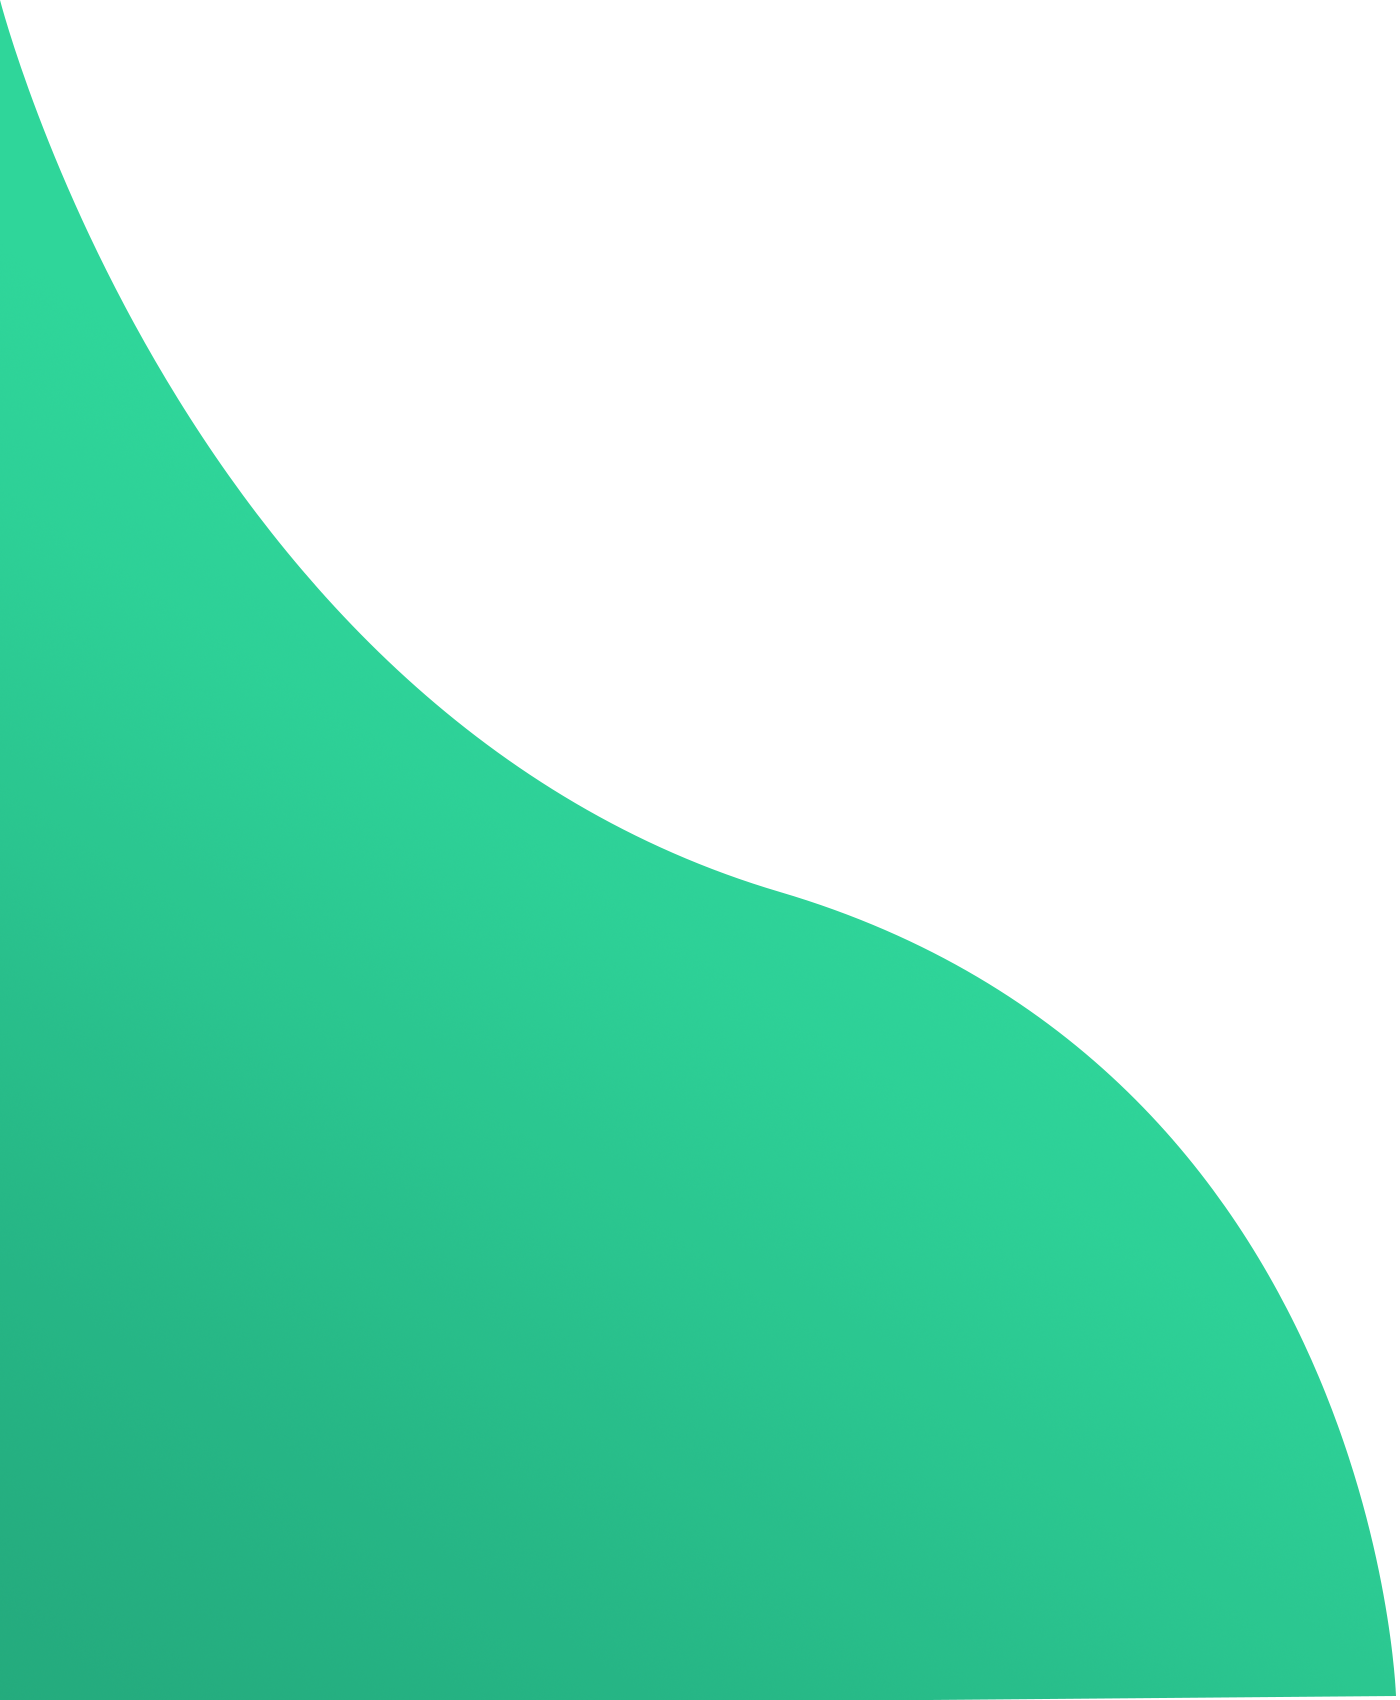
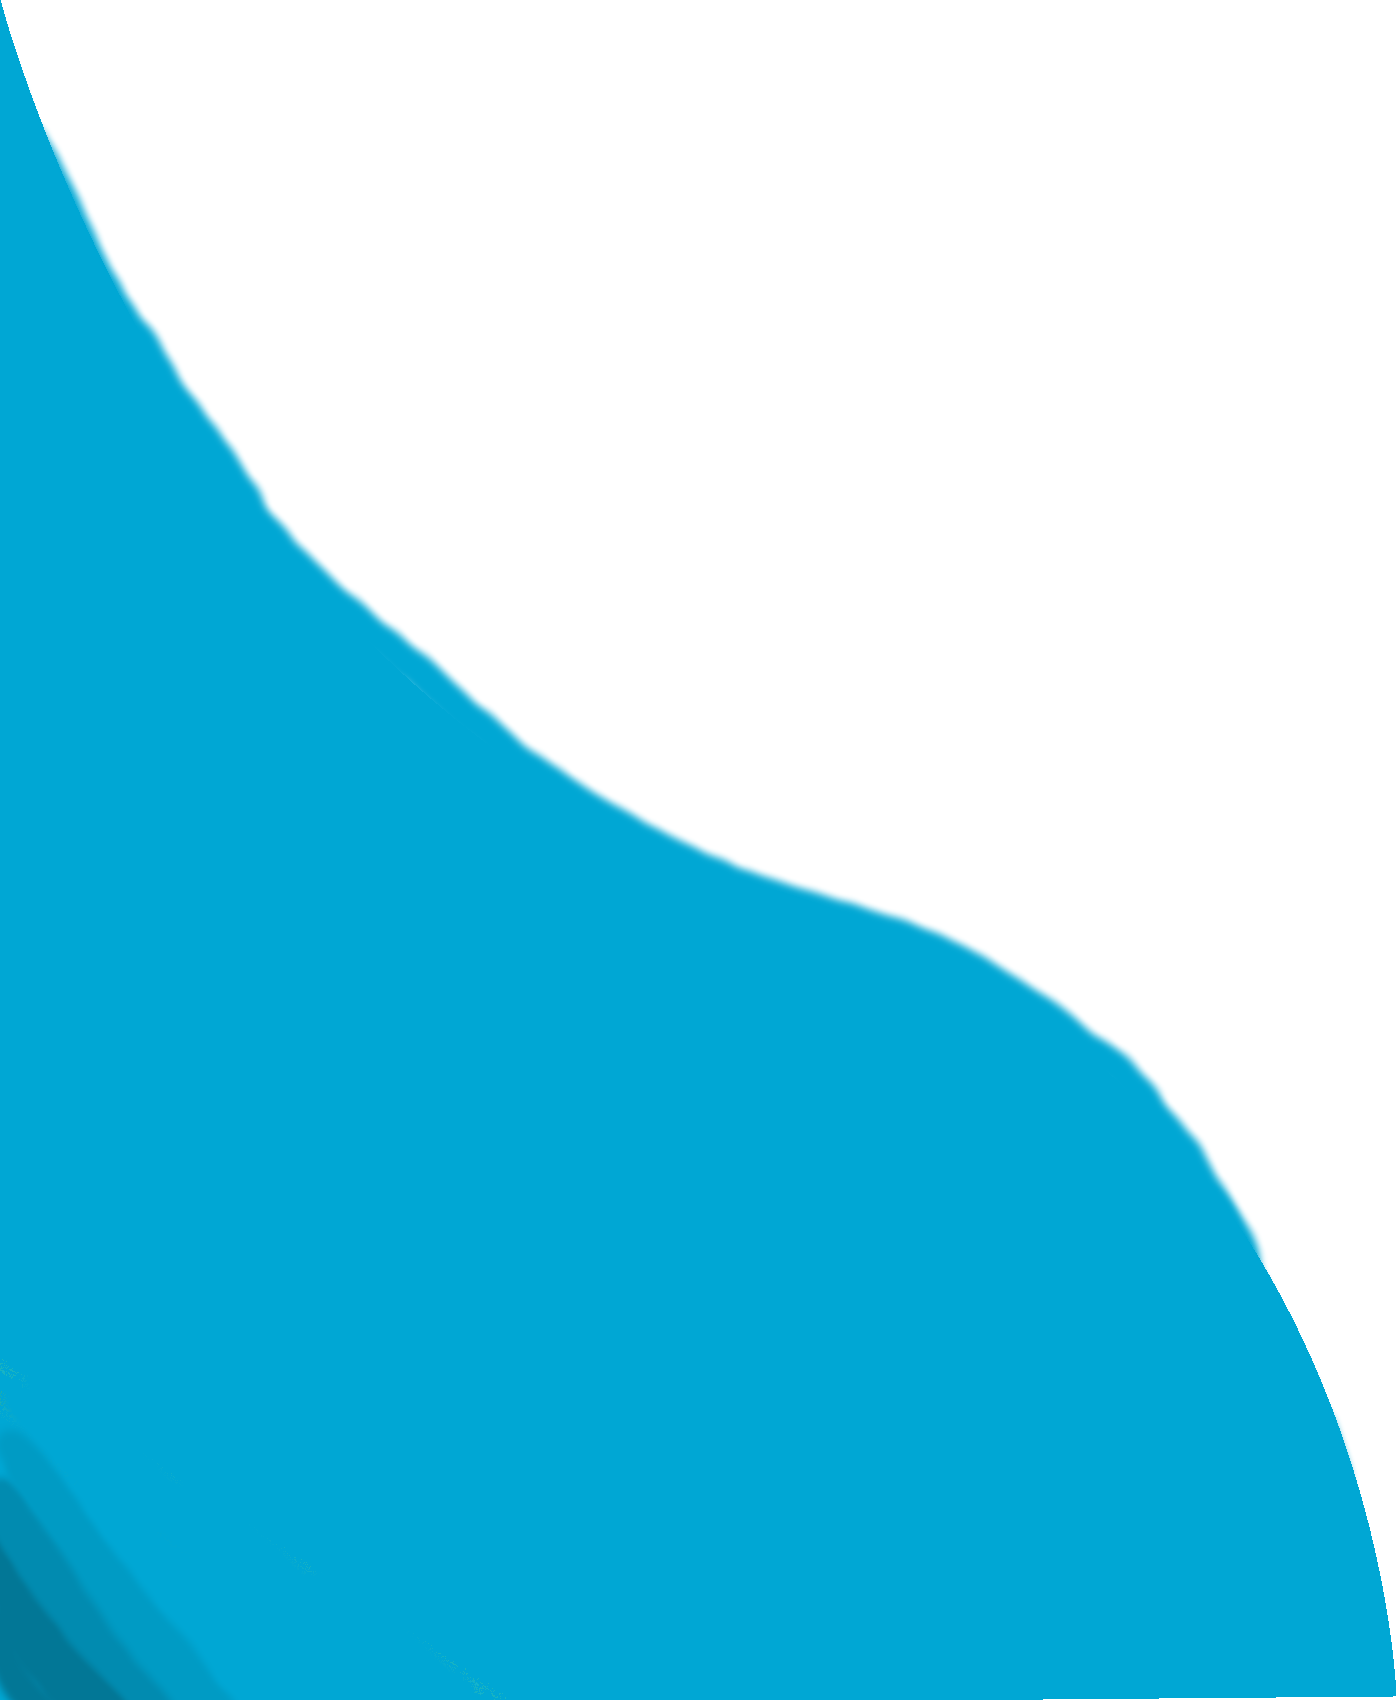
Login terminado

diff --git a/Proyecto2/src/main/webapp/css/style.css b/Proyecto2/src/main/webapp/css/style.css
@@ -60,11 +60,19 @@ form{
     height: 100px;
 }
 
+
 .login-content h2{
 	margin: 15px 0;
 	color: #333;
 	text-transform: uppercase;
 	font-size: 2.9rem;
+}
+
+.error h4{
+	margin: 5px 0;
+	color: #ff1c53;
+	text-transform: uppercase;
+	font-size: 1rem;
 }
 
 .login-content .input-div{
@@ -112,7 +120,7 @@ form{
 	bottom: -2px;
 	width: 0%;
 	height: 2px;
-	background-color: #38d39f;
+	background-color: #1c75ff;
 	transition: .4s;
 }
 
@@ -134,7 +142,7 @@ form{
 }
 
 .input-div.focus > .i > i{
-	color: #38d39f;
+	color: #1c75ff;
 }
 
 .input-div > div > input{
@@ -148,7 +156,7 @@ form{
 	background: none;
 	padding: 0.5rem 0.7rem;
 	font-size: 1.2rem;
-	color: #555;
+	color: #1c75ff;
 	font-family: 'poppins', sans-serif;
 }
 
@@ -193,6 +201,8 @@ a:hover{
  .custom-select {
   position: relative;
   font-family: Arial;
+  left: 85px;
+   width: 100px;
 }
 .custom-select select {
   display: none; /*hide original SELECT element: */

diff --git a/Proyecto2/src/main/java/BackEnd/Login.java b/Proyecto2/src/main/java/BackEnd/Login.java
@@ -15,74 +15,74 @@ import javax.swing.JOptionPane;
  * @author potz
  */
 public class Login {
-    
+
     private String atributo;
     private String user;
     private String password;
-    
+    private boolean ingreso = false;
+
     public Login(String atributo, String user, String password) {
         this.atributo = atributo;
         this.user = user;
         this.password = password;
-        comprobarLogin();
     }
-    
+
     public String getAtributo() {
         return atributo;
     }
-    
+
     public void setAtributo(String atributo) {
         this.atributo = atributo;
     }
-    
+
     public String getUser() {
         return user;
     }
-    
+
     public void setUser(String user) {
         this.user = user;
     }
-    
+
     public String getPassword() {
         return password;
     }
-    
+
     public void setPassword(String password) {
         this.password = password;
     }
-    
-    public void comprobarLogin() {
+
+    public boolean  comprobarLogin() {
         if (getAtributo() == null || getPassword() == null || getUser() == null) {
             JOptionPane.showMessageDialog(null, "Por favor llene todos los campos");
         } else {
             buscarUsuario(atributo);
-            
+
         }
+        return ingreso;
     }
-    
+
     public void buscarUsuario(String entidad) {
         try {
-            boolean ingreso=false;
+
             // set all the preparedstatement parameters
-                 Conexion conexion = new Conexion();
-                conexion.conexionDB();
+            Conexion conexion = new Conexion();
+            conexion.conexionDB();
             String query = "SELECT* FROM " + entidad;
-            PreparedStatement st = Conexion.getConnection().prepareStatement(query);   
-            
+            PreparedStatement st = Conexion.getConnection().prepareStatement(query);
             st = null;
             st = Conexion.getConnection().prepareStatement(query);
             ResultSet result = st.executeQuery();
             while (result.next()) {
                 if (getUser().equals(String.valueOf(result.getObject("codigo"))) && getPassword().equals(String.valueOf(result.getObject("password")))) {
                     JOptionPane.showMessageDialog(null, "Ingreso correctamente " + String.valueOf(result.getObject("nombre")));
-                    ingreso=true;
+                    ingreso = true;
                     break;
-                } 
+                }
             }
-            if(ingreso==false){
+            if (ingreso == false) {
                 JOptionPane.showMessageDialog(null, "Ingreso mal el usuario o password");
             }
-            
+
             st.close();
         } catch (Exception e) {
             // log exception
@@ -90,5 +90,5 @@ public class Login {
             Conexion.disconnectDB();
         }
     }
-    
+
 }

diff --git a/Proyecto2/src/main/java/DataBase/Conexion.java b/Proyecto2/src/main/java/DataBase/Conexion.java
@@ -8,11 +8,7 @@ package DataBase;
 import static java.lang.System.out;
 import java.sql.DriverManager;
 import java.sql.Connection;
-import java.sql.PreparedStatement;
-import java.sql.ResultSet;
 import java.sql.SQLException;
-import java.sql.Statement;
-import javax.swing.JOptionPane;
 
 /**
  *
